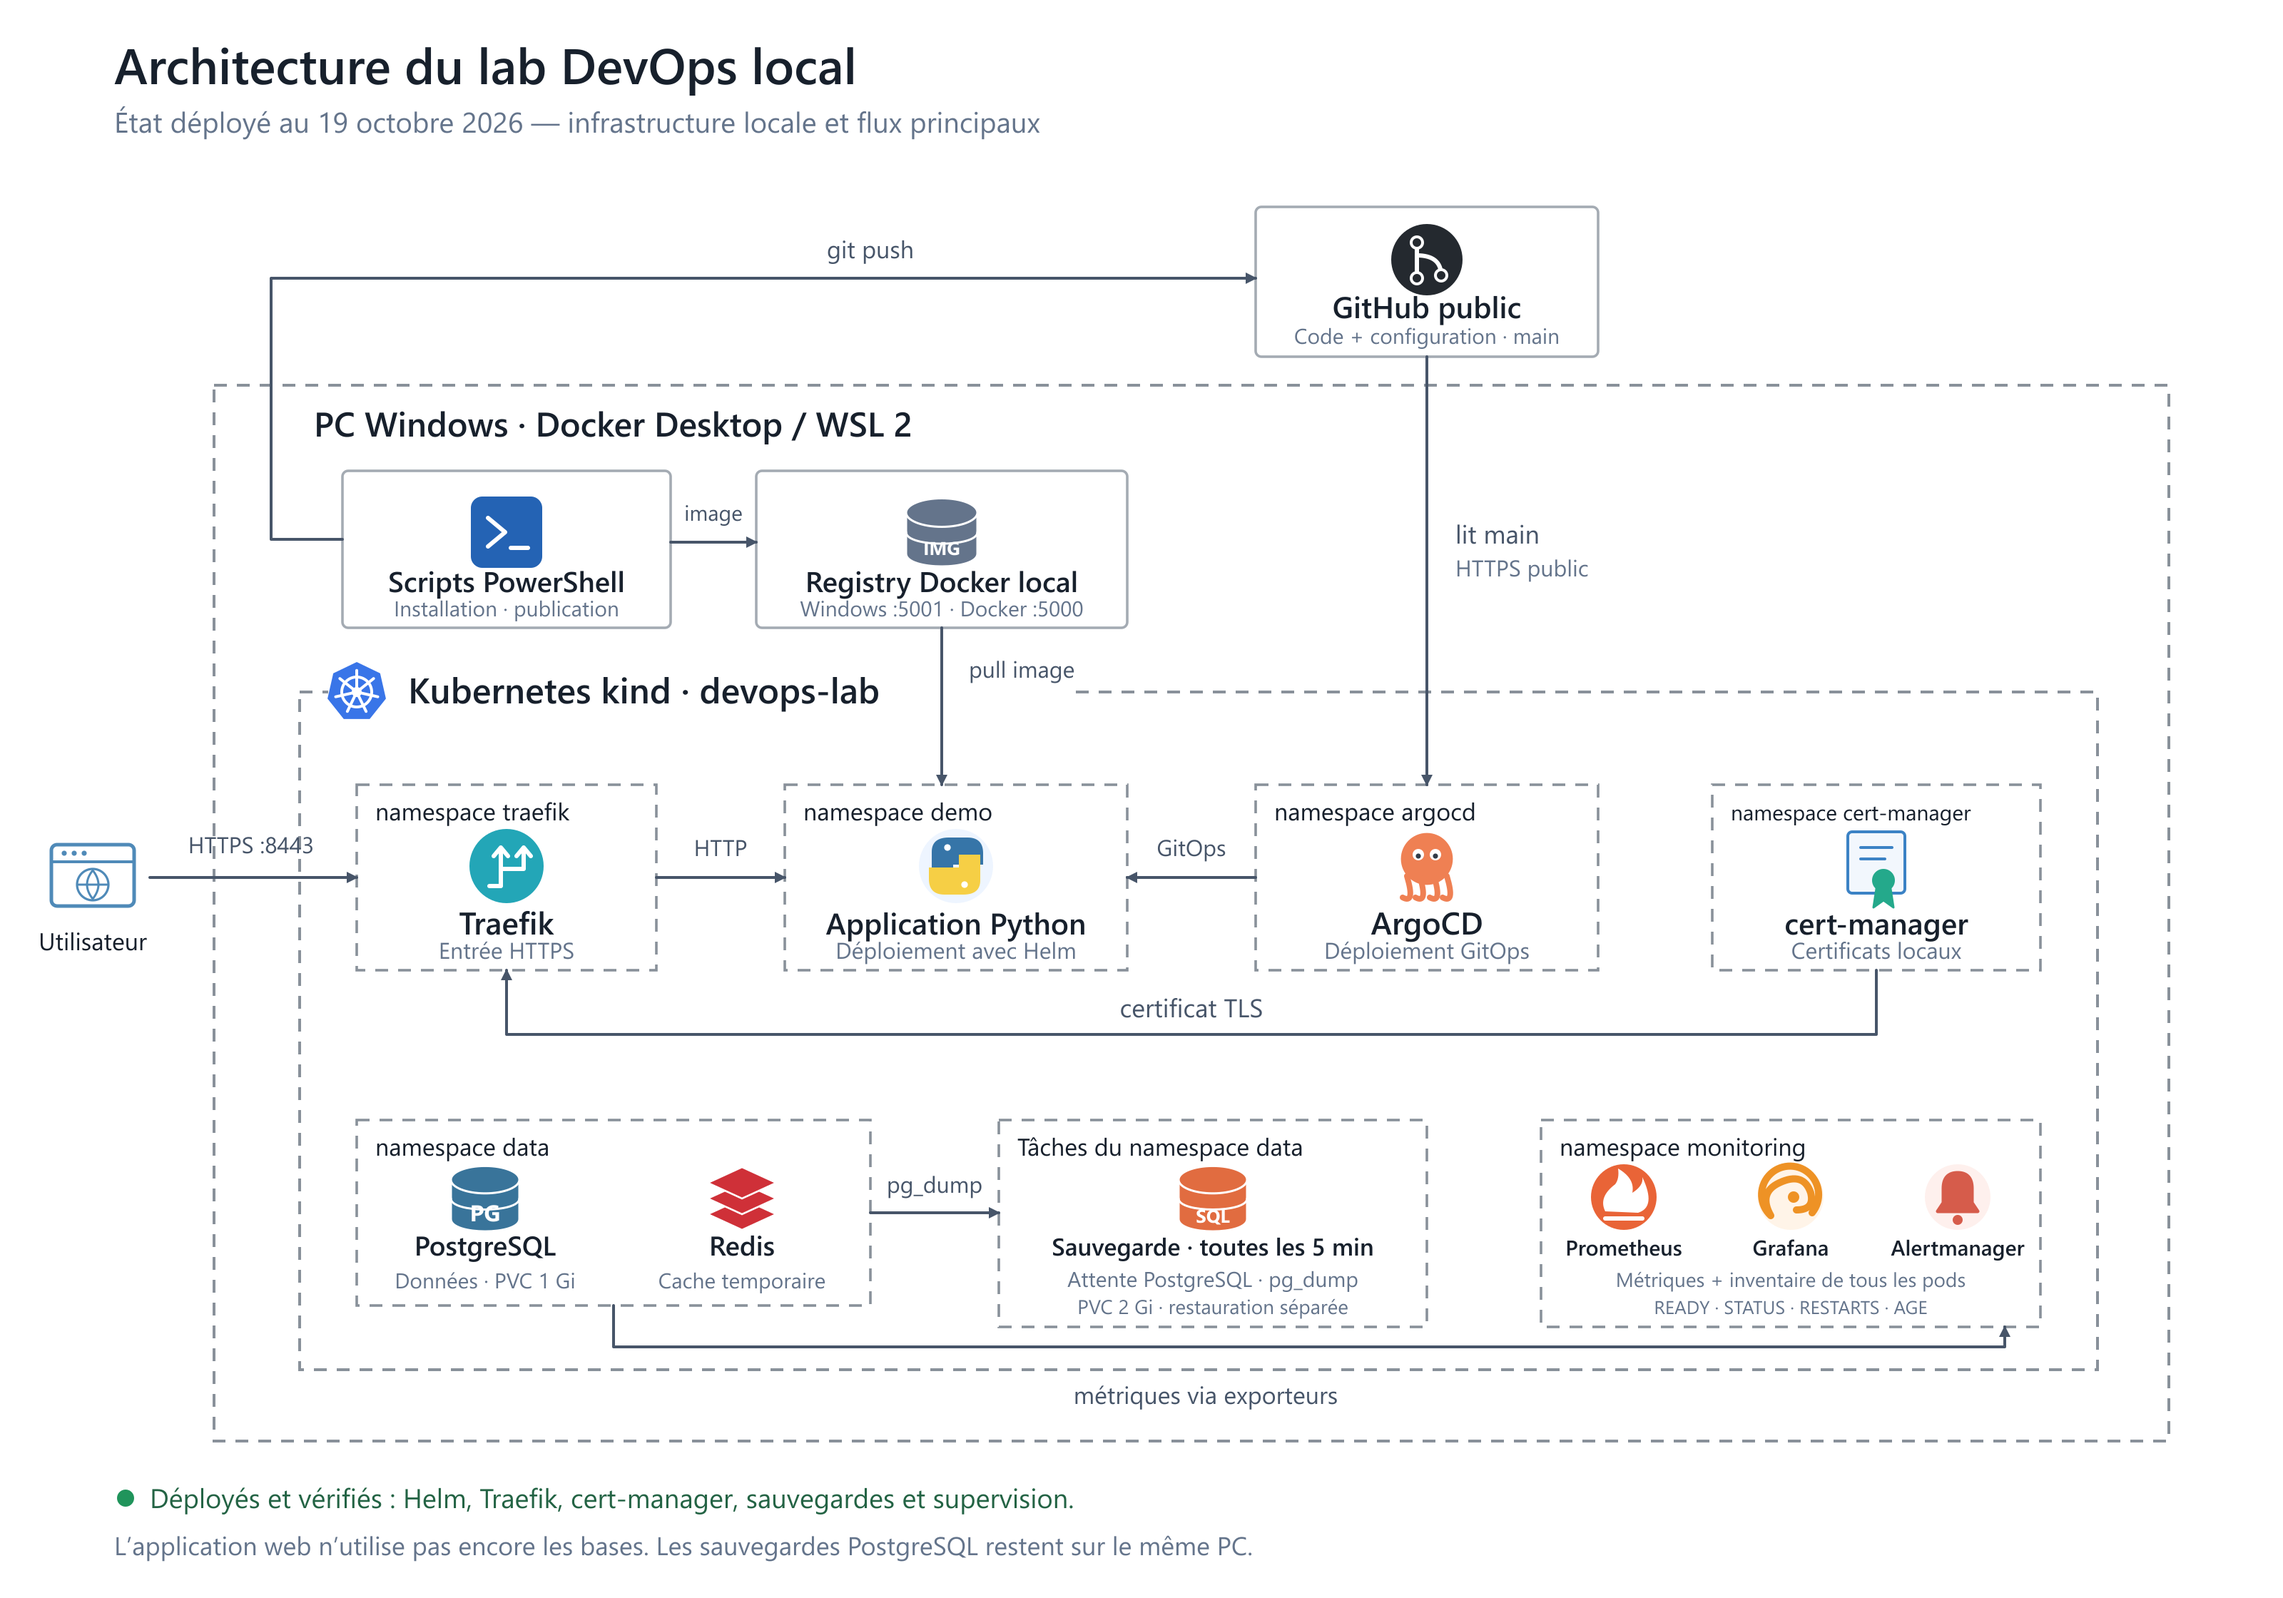
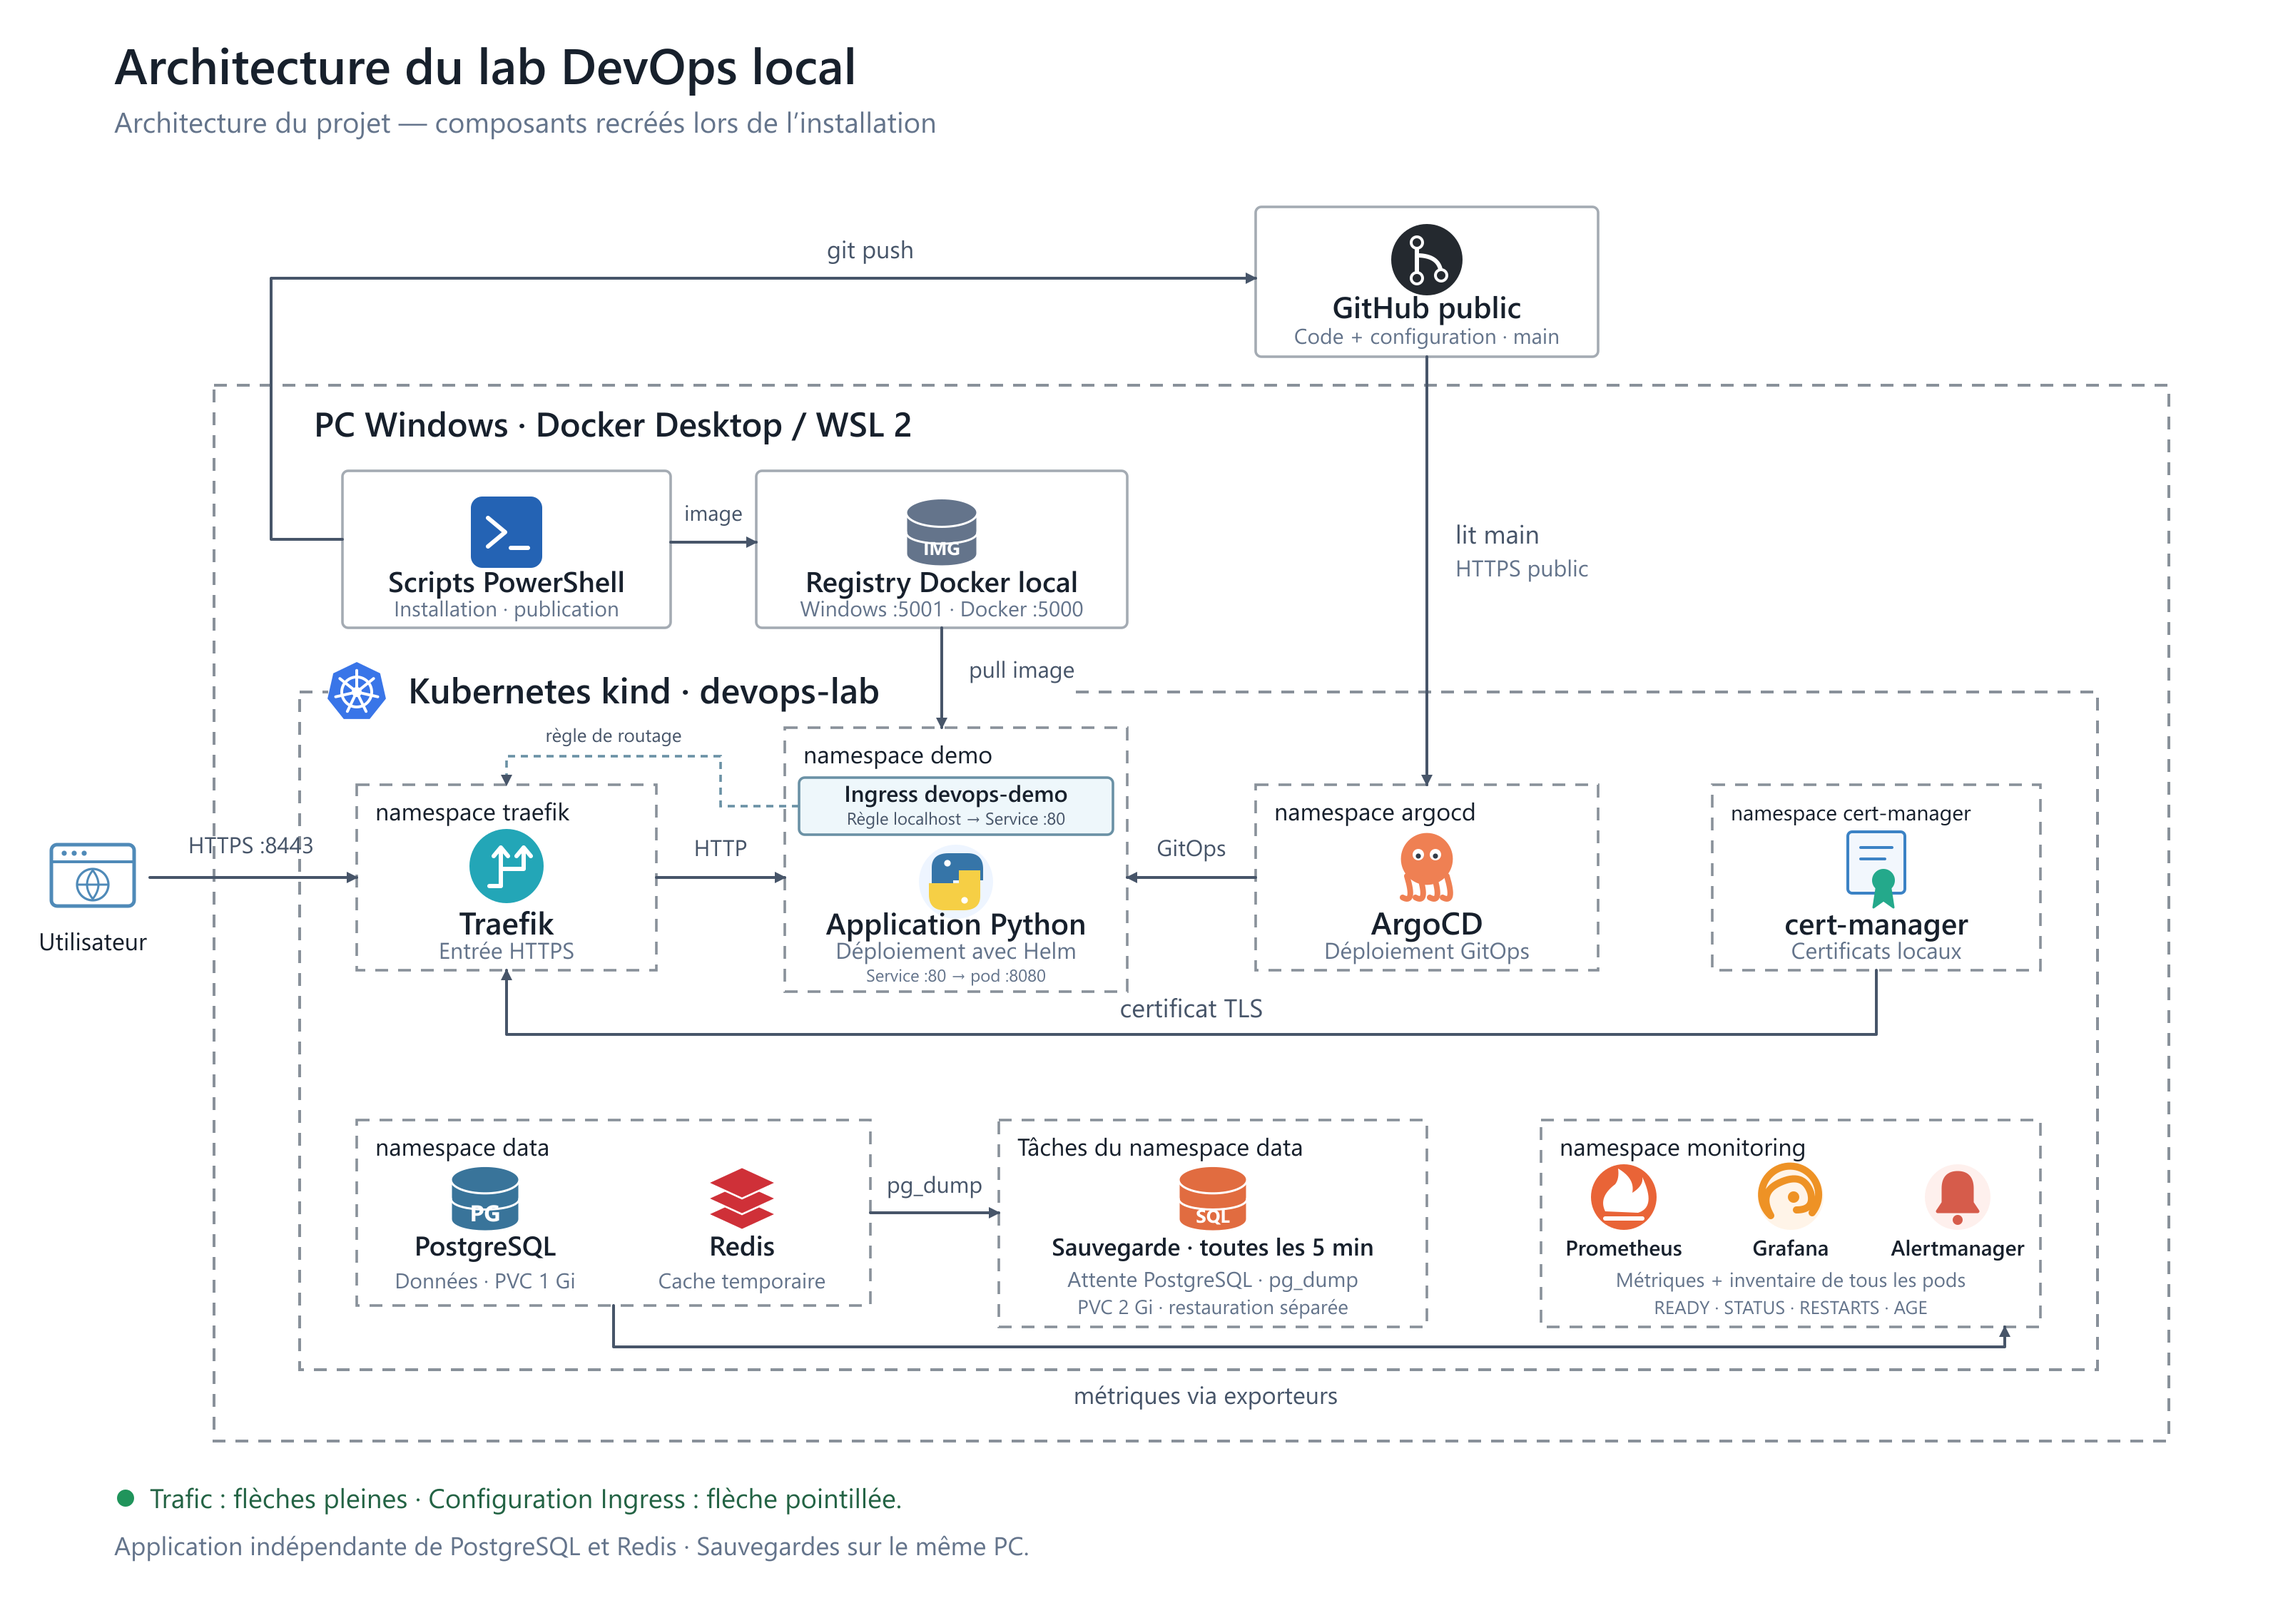
Ajoute explicitement l Ingress et sa regle Traefik au schema

Changed region(s): [[0.3438, 0.4688, 0.4688, 0.625], [0.0625, 0.9375, 0.4688, 0.9688], [0.0625, 0.0625, 0.4375, 0.0938]]

diff --git a/docs/architecture.md b/docs/architecture.md
@@ -6,16 +6,16 @@ Document du 19 octobre 2026, établi à partir des fichiers du projet.
 seul nœud et des données fictives. GitHub et les registres de téléchargement
 restent des dépendances externes. L'exécution des services du lab est locale.
 
-**État au 19 octobre 2026 :** Helm, Traefik et cert-manager sont publiés et
-déployés ; l'application est synchronisée et saine dans ArgoCD et son certificat
-est prêt. L'installation contrôlée sur ce PC a duré 5,86 minutes avec prérequis
+**Validation historique du 19 octobre 2026 :** Helm, Traefik et cert-manager ont
+été déployés ; l'application a été contrôlée Synced / Healthy et son certificat
+Ready. L'installation contrôlée sur ce PC a duré 5,86 minutes avec prérequis
 et certaines images déjà présents. Une restauration dans une instance vide a
 récupéré quatre lignes en 12,96 secondes, hors sauvegarde.
 
 La sauvegarde attend maintenant PostgreSQL avant `pg_dump`. Les contrôles de
 reprise et une sauvegarde réelle avec SHA-256 ont réussi. Grafana affiche tous
-les pods dans un tableau unique, vérifié dans le navigateur. Le renouvellement
-réel des certificats et le parcours HTTPS complet restent à vérifier séparément.
+les pods dans un tableau unique, vérifié dans le navigateur. Le contrôle HTTPS
+via Traefik a réussi ; le renouvellement réel des certificats reste à observer.
 
 ## 1. Vue d'ensemble
 
@@ -24,7 +24,12 @@ réel des certificats et le parcours HTTPS complet restent à vérifier séparé
 ![Architecture locale simplifiée](diagrams/architecture-locale.png)
 
 [Version SVG modifiable](diagrams/architecture-locale.svg).
-Le schéma décrit les composants maintenant déployés. Il conserve un seul PC et un seul cluster ; il ne représente pas les régions cloud ou les
+L'Ingress `devops-demo`, dans le namespace `demo`, définit la règle
+`localhost -> Service devops-demo:80`. La flèche pointillée indique la
+configuration lue par Traefik ; le trafic suit les flèches pleines.
+
+Le schéma décrit la configuration recréée par l'installation, indépendamment de
+l'état courant du cluster. Il conserve un seul PC et un seul cluster ; il ne représente pas les régions cloud ou les
 environnements de production de la référence Sobrus.
 
 ### Vue technique complémentaire
